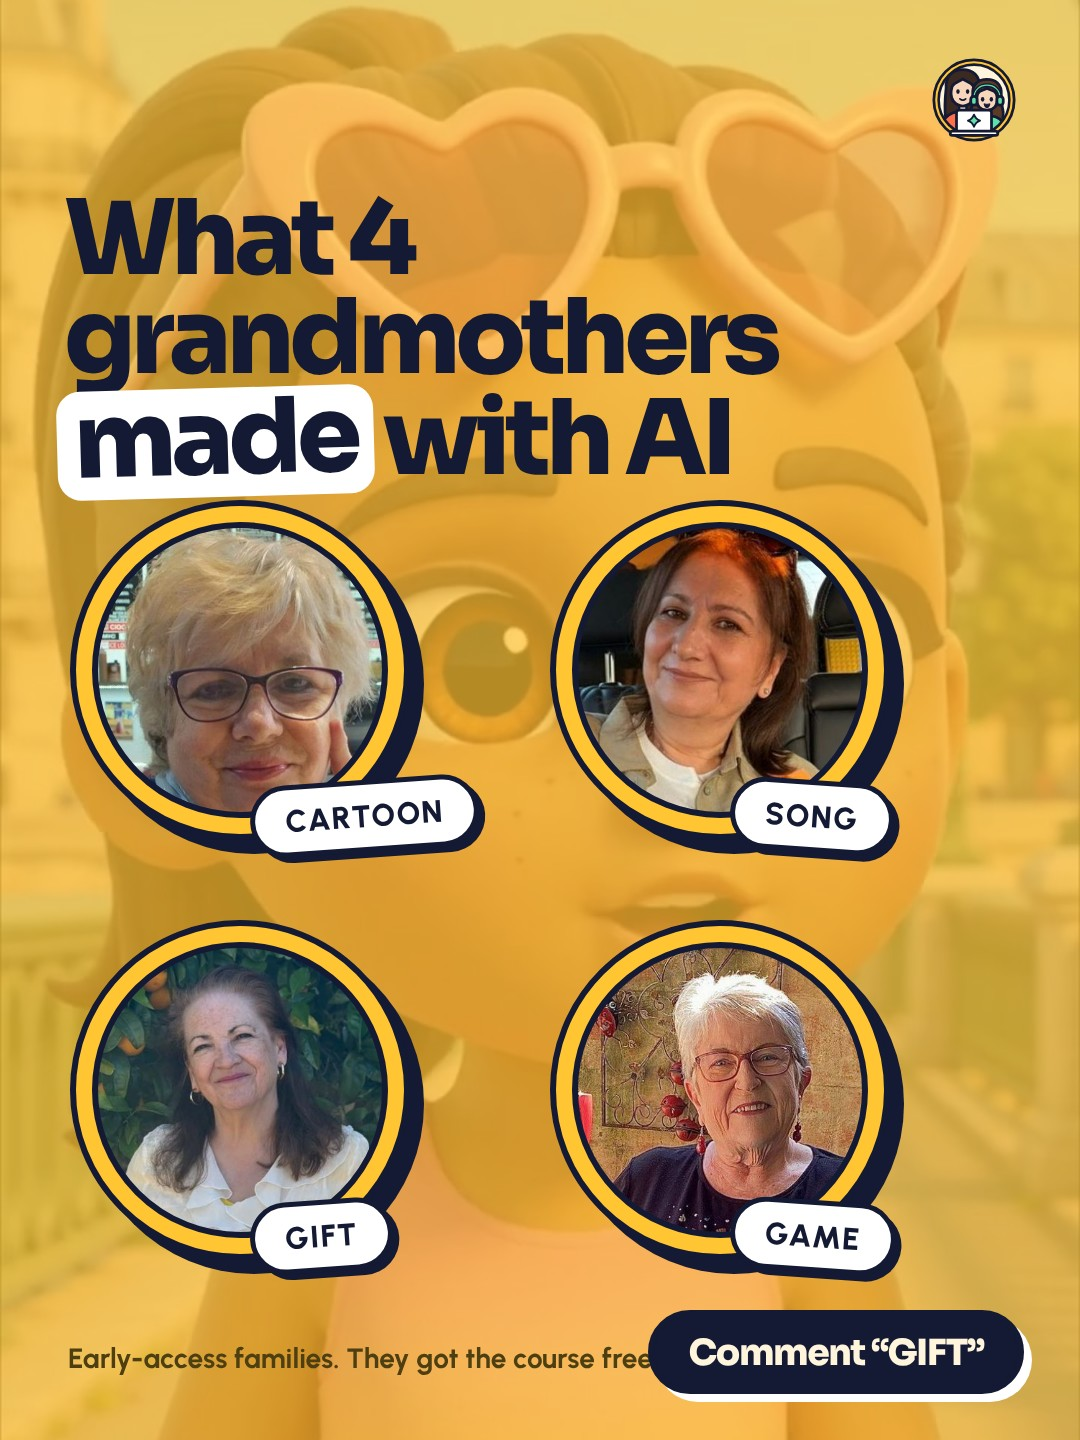
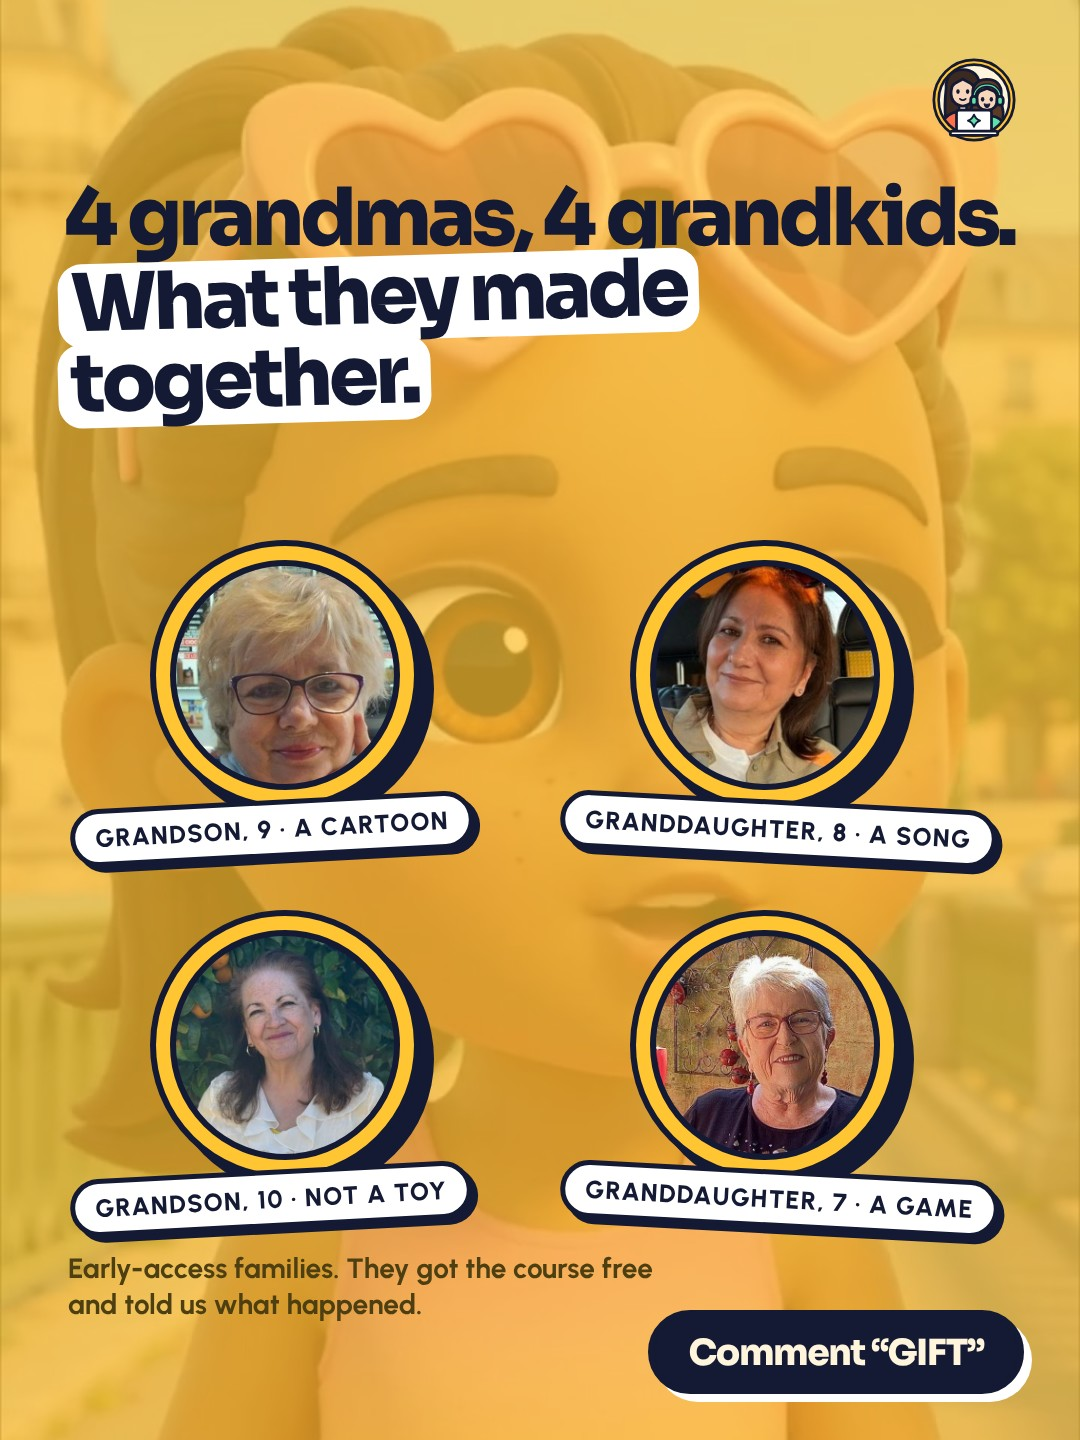
Instagram pack: post 17 grandmas with grandkids, post 30 plan contents, 33 and 35 replace published 11 and 18
Claude-Session: https://claude.ai/code/session_01DtGyjSqHdVpz2CXmqnfjKT

diff --git a/social/desks/instagram.md b/social/desks/instagram.md
@@ -79,3 +79,4 @@ social/concept/sound/build.sh 07   # звук (нужны записи и нав
 - 17.11.2026: от отдела Facebook (решение владельца): видеолента = один пост на четыре площадки (`README.md`, раздел «Видеолента»). Пост готов, когда есть подписи TikTok, YouTube, Facebook; ставим мы, сразу на все четыре на одно время (Facebook: REEL с cover.jpg, текст из posts/<id>/facebook.md, ссылка в первый комментарий; пробный ролик Instagram на других площадках идёт обычным). Нет подписи площадки: на неё не ставим и пишем отделу и владельцу. №11 и №18 на Facebook уже стоят (17.11 09:00 и 15:00).
 - 17.11.2026: по «ок» владельца №11 и №18 поставлены в Metricool на TikTok (431079332, 431079384) и YouTube Shorts (431079405, 431079433) на то же время, что Instagram и Facebook: 09:00 и 15:00 по Нью-Йорку. Тексты из posts/<id>/tiktok.md и youtube.md. Теперь оба поста на всех четырёх площадках.
 - 17.11.2026: отдел Facebook одновременно со мной поставил №11 и №18 на TikTok и YouTube, вышли дубли. Рабочими оставлены первые (TikTok 431079332, 431079384; YouTube 431079405, 431079433), вторые переведены в черновики (TikTok 431080309, 431080367; YouTube 431080432, 431080481), владельцу удалить их вручную. Договорились: видеоленту на TikTok и YouTube ставит только Instagram.
+- 17.11.2026: владелец дал предварительное «ок» на выпуск всего пака 19-25.11. Пост 17 переписан: бабушки вместе с внуками (кто с кем, что сделали, что получили), пост 30: по пунктам, что входит в $197 и в $297 (то же плюс домашка и проверка Аней). №11 и №18 уже вышли 17.11, в паке их места заняли №33 (чт 08:00) и №35 (сб 12:30). Владелец: тот же контент и оформление идут и в обычные публикации (карусели в сетку).
